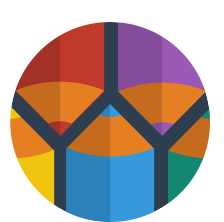
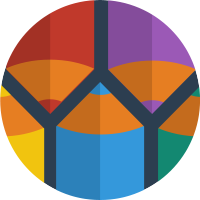
Align illustrations

diff --git a/index.html b/index.html
@@ -521,7 +521,7 @@
 
       <h3 class="demo-panel-title">Vector Icons <small>(14)</small></h3>
       <div class="demo-illustrations">
-        <img src="images/illustrations/compass.png" src="" />
+        <img src="images/illustrations/compass.png" class="big-illustration" src="" />
         <img src="images/illustrations/settings.png" src="" />
         <img src="images/illustrations/map.png" src="" />
         <img src="images/illustrations/paper.png" src="" />
@@ -532,7 +532,7 @@
       <div class="demo-illustrations">
         <img src="images/illustrations/clipboard.png" src="" />
         <img src="images/illustrations/bag.png" src="" />
-        <img src="images/illustrations/share.png" src="" />
+        <img src="images/illustrations/share.png" class="big-illustration" src="" />
         <img src="images/illustrations/colors.png" src="" />
         <img src="images/illustrations/mail.png" src="" />
         <img src="images/illustrations/book.png" src="" />
@@ -593,7 +593,7 @@
       <div class="row demo-tiles">
         <div class="span3">
           <div class="tile">
-            <img class="tile-image" alt="" src="images/illustrations/compass.png" />
+            <img class="tile-image big-illustration" alt="" src="images/illustrations/compass.png" />
             <h3 class="tile-title">Web Oriented</h3>
             <p>100% convertable to HTML/CSS layout.</p>
             <a class="btn btn-primary btn-large btn-block" href="#">Get Pro</a>
@@ -620,7 +620,7 @@
 
         <div class="span3">
           <div class="tile tile-hot">
-            <img class="tile-image" alt="" src="images/illustrations/share.png" />
+            <img class="tile-image big-illustration" alt="" src="images/illustrations/share.png" />
             <h3 class="tile-title">Free for Share</h3>
             <p>Your likes, shares and comments helps us.</p>
             <a class="btn btn-primary btn-large btn-block" href="#">Get Pro</a>

diff --git a/css/flat-ui.css b/css/flat-ui.css
@@ -366,9 +366,13 @@ h6 {
 .demo-illustrations {
   margin-bottom: 45px; }
   .demo-illustrations img {
-    height: 111px;
-    margin-left: 23px;
-    width: 112px; }
+    height: 100px;
+    margin-left: 35px;
+    width: 100px;
+    vertical-align: bottom; }
+    .demo-illustrations img.big-illustration {
+      height: 111px;
+      width: 112px; }
     .demo-illustrations img:first-child {
       margin-left: 0; }
 
@@ -1409,8 +1413,13 @@ textarea,
     margin-bottom: 33px; }
 
 .tile-image {
-  height: 111px;
-  margin: 20px 0 27px; }
+  height: 100px;
+  margin: 31px 0 27px;
+  vertical-align: bottom; }
+  .tile-image.big-illustration {
+    height: 111px;
+    margin-top: 20px;
+    width: 112px; }
 
 .tile-title {
   font-size: 20px;

diff --git a/sass/modules/_demo.sass b/sass/modules/_demo.sass
@@ -79,9 +79,15 @@
   margin-bottom: 45px
 
   img
-    height: 111px
-    margin-left: 23px
-    width: 112px
+    height: 100px
+    margin-left: 35px
+    width: 100px
+    vertical-align: bottom
+
+    &.big-illustration
+      height: 111px
+      width: 112px
+
     &:first-child
       margin-left: 0
 

diff --git a/sass/modules/_tile.sass b/sass/modules/_tile.sass
@@ -10,8 +10,13 @@
     margin-bottom: 33px
 
 .tile-image
-  height: 111px
-  margin: 20px 0 27px
+  height: 100px
+  margin: 31px 0 27px
+  vertical-align: bottom
+  &.big-illustration
+    height: 111px
+    margin-top: 20px
+    width: 112px
 
 .tile-title
   font-size: 20px
